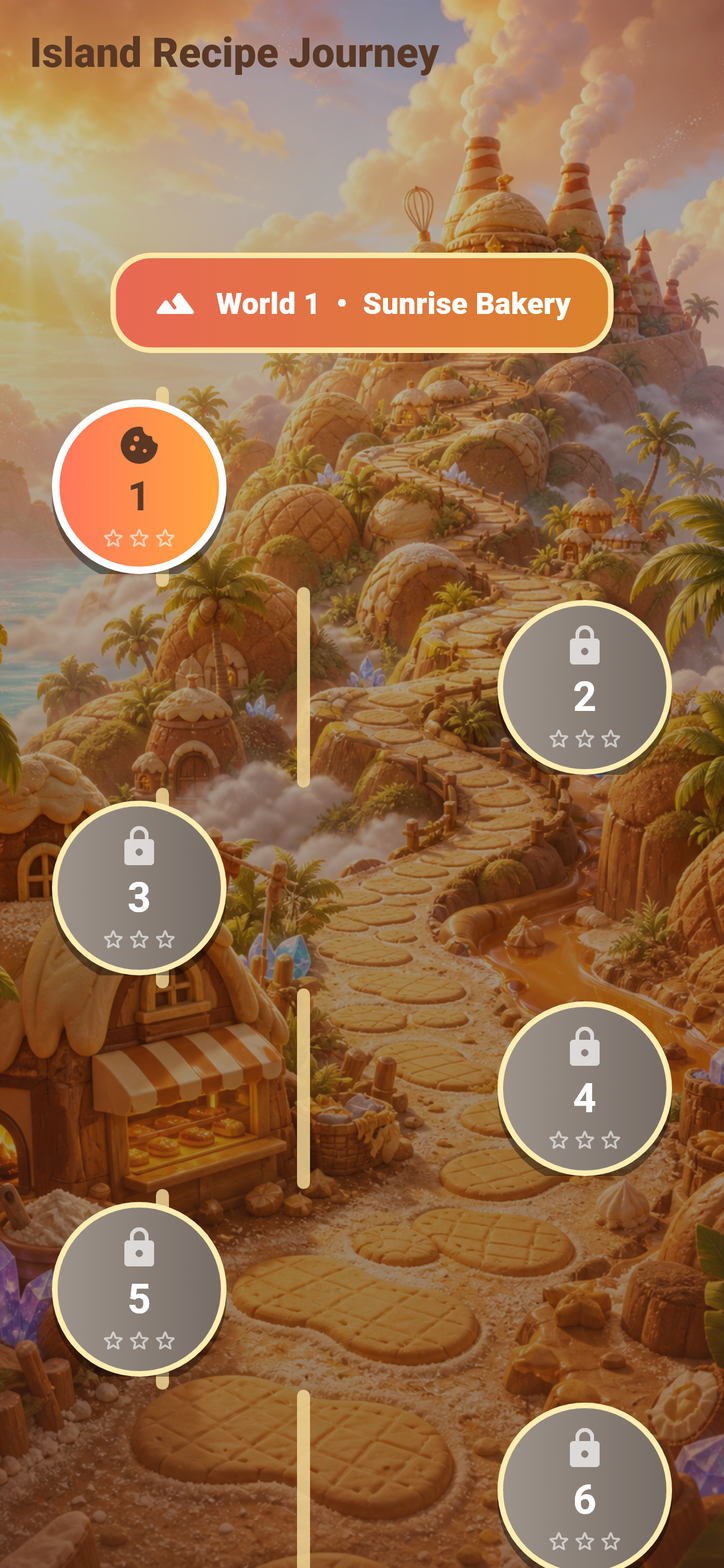
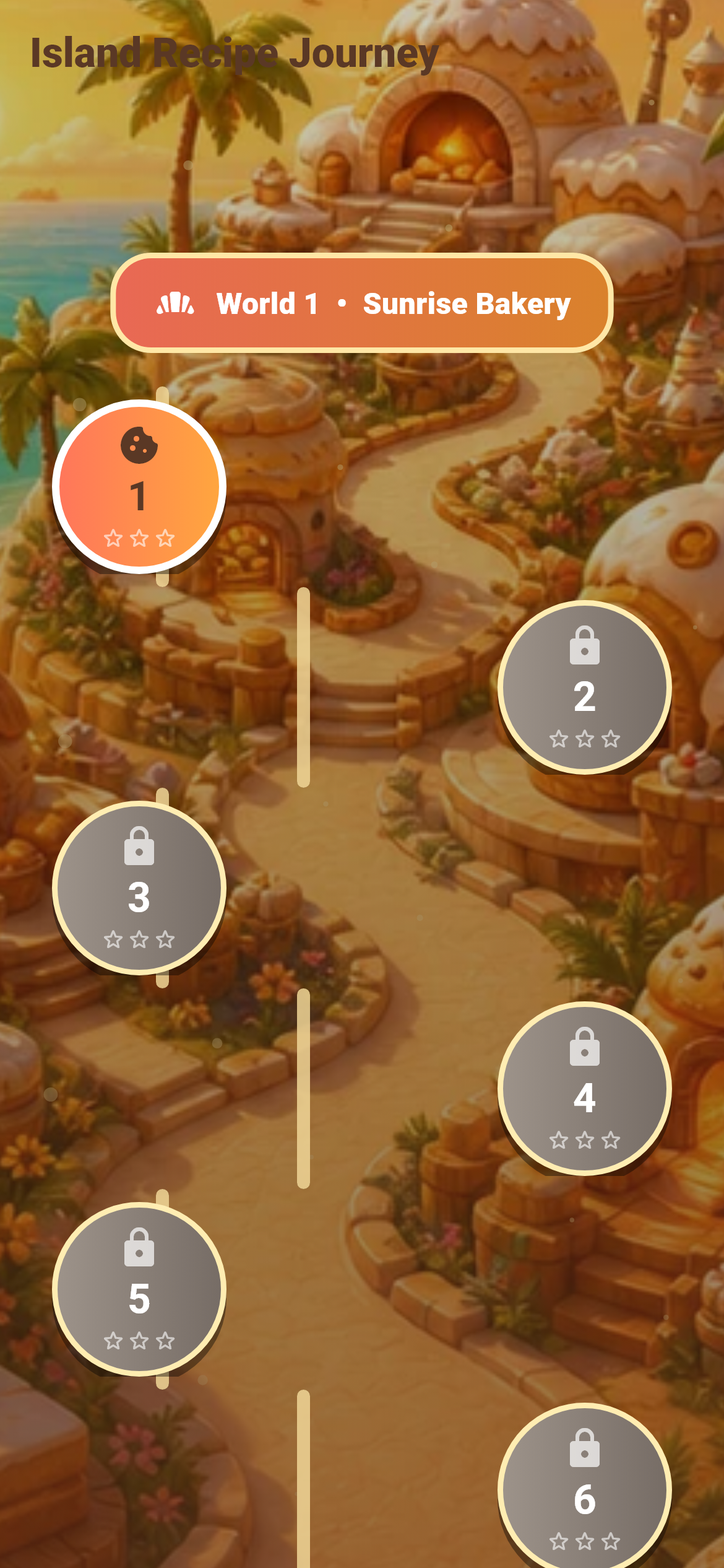
Complete phase 13 animated world adventure

diff --git a/lib/features/level_map/presentation/level_map_screen.dart b/lib/features/level_map/presentation/level_map_screen.dart
@@ -1,3 +1,5 @@
+import 'dart:math' as math;
+
 import 'package:flutter/material.dart';
 import 'package:flutter_riverpod/flutter_riverpod.dart';
 import 'package:go_router/go_router.dart';
@@ -6,11 +8,45 @@ import '../../../core/theme/app_colors.dart';
 import '../../../services/content/world_presentation_catalog.dart';
 import '../../progress/application/progress_controller.dart';
 
-class LevelMapScreen extends ConsumerWidget {
+class LevelMapScreen extends ConsumerStatefulWidget {
   const LevelMapScreen({super.key});
 
   @override
-  Widget build(BuildContext context, WidgetRef ref) {
+  ConsumerState<LevelMapScreen> createState() => _LevelMapScreenState();
+}
+
+class _LevelMapScreenState extends ConsumerState<LevelMapScreen>
+    with SingleTickerProviderStateMixin {
+  late final AnimationController _ambient;
+  final ScrollController _scroll = ScrollController();
+  int _visibleWorld = 0;
+
+  @override
+  void initState() {
+    super.initState();
+    _ambient = AnimationController(
+      vsync: this,
+      duration: const Duration(seconds: 14),
+    )..repeat();
+    _scroll.addListener(_trackWorld);
+  }
+
+  void _trackWorld() {
+    final next = (_scroll.offset / 2200).floor().clamp(0, 5);
+    if (next != _visibleWorld) setState(() => _visibleWorld = next);
+  }
+
+  @override
+  void dispose() {
+    _scroll
+      ..removeListener(_trackWorld)
+      ..dispose();
+    _ambient.dispose();
+    super.dispose();
+  }
+
+  @override
+  Widget build(BuildContext context) {
     final save = ref.watch(progressControllerProvider).data;
     return Scaffold(
       extendBodyBehindAppBar: true,
@@ -27,89 +63,154 @@ class LevelMapScreen extends ConsumerWidget {
           if (catalog == null) {
             return const Center(child: CircularProgressIndicator());
           }
-          return Stack(
-            children: [
-              Positioned.fill(
-                child: Image.asset(
-                  catalog.main.backgroundAsset,
-                  fit: BoxFit.cover,
-                  alignment: Alignment.topCenter,
-                ),
-              ),
-              const Positioned.fill(
-                child: DecoratedBox(
-                  decoration: BoxDecoration(
-                    gradient: LinearGradient(
-                      begin: Alignment.topCenter,
-                      end: Alignment.bottomCenter,
-                      colors: [Color(0x33000000), Color(0x99562C18)],
+          final visibleWorld =
+              catalog.worlds[_visibleWorld.clamp(0, catalog.worlds.length - 1)];
+          return TickerMode(
+            enabled: !save.settings.reducedMotion,
+            child: Stack(
+              children: [
+                Positioned.fill(
+                  child: AnimatedSwitcher(
+                    duration: const Duration(milliseconds: 900),
+                    child: SizedBox.expand(
+                      key: ValueKey(visibleWorld.id),
+                      child: AnimatedBuilder(
+                        animation: Listenable.merge([_ambient, _scroll]),
+                        builder: (context, child) {
+                          final phase = _ambient.value * math.pi * 2;
+                          final parallax = _scroll.hasClients
+                              ? -(_scroll.offset % 2200) * .018
+                              : 0.0;
+                          return Transform.translate(
+                            offset: Offset(
+                              math.sin(phase) * 7,
+                              parallax + math.cos(phase) * 5,
+                            ),
+                            child: Transform.scale(scale: 1.13, child: child),
+                          );
+                        },
+                        child: Image.asset(
+                          visibleWorld.backgroundAsset,
+                          fit: BoxFit.cover,
+                          alignment: Alignment.center,
+                        ),
+                      ),
                     ),
                   ),
                 ),
-              ),
-              SafeArea(
-                child: ListView.builder(
-                  padding: const EdgeInsets.fromLTRB(28, 72, 28, 80),
-                  itemCount: catalog.lastLevel,
-                  itemBuilder: (context, index) {
-                    final level = index + 1;
-                    final world = catalog.worldForLevel(level);
-                    final unlocked = level <= save.highestUnlockedLevel;
-                    final stars = save.starsFor(level);
-                    return Column(
-                      children: [
-                        if (level == world.firstLevel)
-                          _WorldRibbon(name: world.name, number: world.order),
-                        SizedBox(
-                          height: 108,
-                          child: Stack(
-                            children: [
-                              Positioned(
-                                left: index.isEven ? 56 : 132,
-                                top: 0,
-                                bottom: 0,
-                                child: Container(
-                                  width: 7,
-                                  decoration: BoxDecoration(
-                                    color: const Color(0xCCFFE3A0),
-                                    borderRadius: BorderRadius.circular(99),
-                                    boxShadow: const [
-                                      BoxShadow(
-                                        color: Colors.black26,
-                                        blurRadius: 5,
-                                      ),
-                                    ],
+                Positioned.fill(
+                  child: IgnorePointer(
+                    child: AnimatedBuilder(
+                      animation: _ambient,
+                      builder: (context, child) => CustomPaint(
+                        painter: _AmbientPainter(
+                          progress: _ambient.value,
+                          seed: visibleWorld.order,
+                        ),
+                      ),
+                    ),
+                  ),
+                ),
+                const Positioned.fill(
+                  child: DecoratedBox(
+                    decoration: BoxDecoration(
+                      gradient: LinearGradient(
+                        begin: Alignment.topCenter,
+                        end: Alignment.bottomCenter,
+                        colors: [Color(0x33000000), Color(0x99562C18)],
+                      ),
+                    ),
+                  ),
+                ),
+                SafeArea(
+                  child: ListView.builder(
+                    controller: _scroll,
+                    padding: const EdgeInsets.fromLTRB(28, 72, 28, 80),
+                    itemCount: catalog.lastLevel,
+                    itemBuilder: (context, index) {
+                      final level = index + 1;
+                      final world = catalog.worldForLevel(level);
+                      final unlocked = level <= save.highestUnlockedLevel;
+                      final stars = save.starsFor(level);
+                      return Column(
+                        children: [
+                          if (level == world.firstLevel)
+                            _WorldRibbon(name: world.name, number: world.order),
+                          SizedBox(
+                            height: 108,
+                            child: Stack(
+                              children: [
+                                Positioned(
+                                  left: index.isEven ? 56 : 132,
+                                  top: 0,
+                                  bottom: 0,
+                                  child: Container(
+                                    width: 7,
+                                    decoration: BoxDecoration(
+                                      color: const Color(0xCCFFE3A0),
+                                      borderRadius: BorderRadius.circular(99),
+                                      boxShadow: const [
+                                        BoxShadow(
+                                          color: Colors.black26,
+                                          blurRadius: 5,
+                                        ),
+                                      ],
+                                    ),
                                   ),
                                 ),
-                              ),
-                              Align(
-                                alignment: index.isEven
-                                    ? Alignment.centerLeft
-                                    : Alignment.centerRight,
-                                child: _LevelNode(
-                                  level: level,
-                                  stars: stars,
-                                  unlocked: unlocked,
-                                  current: level == save.highestUnlockedLevel,
-                                  onPressed: unlocked
-                                      ? () => context.push('/level/$level')
-                                      : null,
+                                Align(
+                                  alignment: index.isEven
+                                      ? Alignment.centerLeft
+                                      : Alignment.centerRight,
+                                  child: _LevelNode(
+                                    level: level,
+                                    stars: stars,
+                                    unlocked: unlocked,
+                                    current: level == save.highestUnlockedLevel,
+                                    onPressed: unlocked
+                                        ? () => context.push('/level/$level')
+                                        : null,
+                                  ),
                                 ),
-                              ),
-                            ],
+                              ],
+                            ),
                           ),
-                        ),
-                      ],
-                    );
-                  },
+                        ],
+                      );
+                    },
+                  ),
                 ),
-              ),
-            ],
+              ],
+            ),
           );
         },
       ),
     );
   }
+}
+
+class _AmbientPainter extends CustomPainter {
+  const _AmbientPainter({required this.progress, required this.seed});
+
+  final double progress;
+  final int seed;
+
+  @override
+  void paint(Canvas canvas, Size size) {
+    final glow = Paint()..color = const Color(0x72FFE9A1);
+    for (var index = 0; index < 22; index++) {
+      final x = ((index * 83 + seed * 47) % 100) / 100 * size.width;
+      final origin = ((index * 137 + seed * 31) % 100) / 100;
+      final speed = .16 + (index % 4) * .035;
+      final y = ((origin - progress * speed) % 1) * size.height;
+      final pulse = .72 + math.sin(progress * math.pi * 2 + index) * .28;
+      canvas.drawCircle(Offset(x, y), (1.8 + index % 3) * pulse, glow);
+    }
+  }
+
+  @override
+  bool shouldRepaint(covariant _AmbientPainter oldDelegate) =>
+      oldDelegate.progress != progress || oldDelegate.seed != seed;
 }
 
 class _WorldRibbon extends StatelessWidget {
@@ -132,7 +233,7 @@ class _WorldRibbon extends StatelessWidget {
     child: Row(
       mainAxisSize: MainAxisSize.min,
       children: [
-        const Icon(Icons.landscape_rounded, color: Colors.white),
+        Icon(_worldIcon(number), color: Colors.white),
         const SizedBox(width: 10),
         Text(
           'World $number  •  $name',
@@ -144,6 +245,15 @@ class _WorldRibbon extends StatelessWidget {
       ],
     ),
   );
+
+  IconData _worldIcon(int world) => switch (world) {
+    1 => Icons.bakery_dining_rounded,
+    2 => Icons.park_rounded,
+    3 => Icons.cloud_rounded,
+    4 => Icons.sailing_rounded,
+    5 => Icons.local_fire_department_rounded,
+    _ => Icons.auto_awesome_rounded,
+  };
 }
 
 class _LevelNode extends StatelessWidget {

diff --git a/tool/capture_screenshots_test.dart b/tool/capture_screenshots_test.dart
@@ -43,7 +43,14 @@ void main() {
     );
 
     appRouter.go('/map');
-    await tester.pumpAndSettle();
+    for (var frame = 0; frame < 30; frame++) {
+      await tester.pump(const Duration(milliseconds: 50));
+      if (find.byKey(const Key('level-1')).evaluate().isNotEmpty) break;
+    }
+    await tester.runAsync(
+      () => Future<void>.delayed(const Duration(seconds: 1)),
+    );
+    await tester.pump(const Duration(seconds: 1));
     await expectLater(
       find.byType(MaterialApp),
       matchesGoldenFile('../docs/screenshots/03-level-map.png'),

diff --git a/test/integration/app_flow_test.dart b/test/integration/app_flow_test.dart
@@ -19,7 +19,10 @@ void main() {
 
     expect(find.text('Puff & Crunch'), findsOneWidget);
     await tester.tap(find.text('Play Adventure'));
-    await tester.pumpAndSettle();
+    for (var frame = 0; frame < 30; frame++) {
+      await tester.pump(const Duration(milliseconds: 50));
+      if (find.text('Island Recipe Journey').evaluate().isNotEmpty) break;
+    }
     expect(find.text('Island Recipe Journey'), findsOneWidget);
 
     await tester.tap(find.byKey(const Key('level-1')));

diff --git a/PROGRESS.md b/PROGRESS.md
@@ -1,6 +1,6 @@
 # Current Status
 
-Current phase: Phase 13 (ready to begin)
+Current phase: Phase 13 (completed)
 
 ## Completed
 
@@ -110,6 +110,10 @@ Current phase: Phase 13 (ready to begin)
 - Preserved one match-3 engine while giving each world escalating combinations of frosting, crates, twine, baskets, cream, spreading chocolate, ovens, stones, shaped trays, and multi-goal recipes
 - Validated all 120 openings and 10,000 bounded gameplay simulations
 - Expanded the gameplay sound palette to 19 original SFX with distinct selection, fall, landing, reshuffle, blocker, special-creation, and per-power activation cues
+- Rebuilt the 120-level map as a continuous six-world adventure that cross-fades through the existing AI-generated world paintings
+- Added scroll-linked parallax, a seamless 14-second cinemagraph drift, floating ambient lights, and per-world landmark icons
+- Kept world presentation catalog-driven and disabled ambient movement when Reduced Motion is enabled
+- Phase 13 verification completed
 
 ## In Progress
 
@@ -117,7 +121,7 @@ Current phase: Phase 13 (ready to begin)
 
 ## Remaining
 
-- Phase 13 AI-generated connected vertical world adventure with parallax and seamless ambient loops
+- Define Phase 14 after reviewing the completed animated world journey
 
 ## Tests
 
@@ -129,8 +133,8 @@ Current phase: Phase 13 (ready to begin)
 - `flutter build apk --debug`: passed (`build/app/outputs/flutter-apk/app-debug.apk`, 157,010,839 bytes)
[1 lines of base64/hex data omitted]
 - `flutter build web --release`: passed (`build/web`, `main.dart.js` 2,961,872 bytes)
-- `flutter build apk --release`: passed (`build/app/outputs/flutter-apk/app-release.apk`, 67,261,565 bytes)
[1 lines of base64/hex data omitted]
+- `flutter build apk --release`: passed (`build/app/outputs/flutter-apk/app-release.apk`, 67,294,897 bytes)
[1 lines of base64/hex data omitted]
 - Production asset catalog: 207 files, including 26 WAV, 21 PNG, 6 WebP, and 121 JSON files
 - Unresolved TODO audit: no project-owned TODOs; only Flutter-generated Linux/Windows runner comments remain
 

diff --git a/PHASE13_WORLD_ADVENTURE.md b/PHASE13_WORLD_ADVENTURE.md
@@ -1,0 +1,17 @@
+# Phase 13 World Adventure
+
+Phase 13 turns the 120-level map into one continuous six-world journey without changing match-3 rules or save compatibility.
+
+## Delivered
+
+- The map automatically switches to each world's AI-generated scene as the player reaches its 20-level section.
+- Backgrounds move at a slower rate than the level path to create depth while scrolling.
+- Every scene has a subtle 14-second seamless ambient drift and a looping field of warm floating lights.
+- World changes cross-fade instead of cutting abruptly.
+- Each world ribbon has a distinct landmark icon while the connected path continues through all 120 levels.
+- Reduced Motion disables the ambient animation through Flutter's ticker system.
+- World images, level ranges, names, music, and ordering remain catalog-driven, so adding a world does not require a new map screen.
+
+## Art direction
+
+The implementation deliberately reuses the six existing AI-generated world paintings. This preserves the established Peanut Kisses-inspired palette and makes the level map, pre-level screen, gameplay background, and world music feel like the same place.
